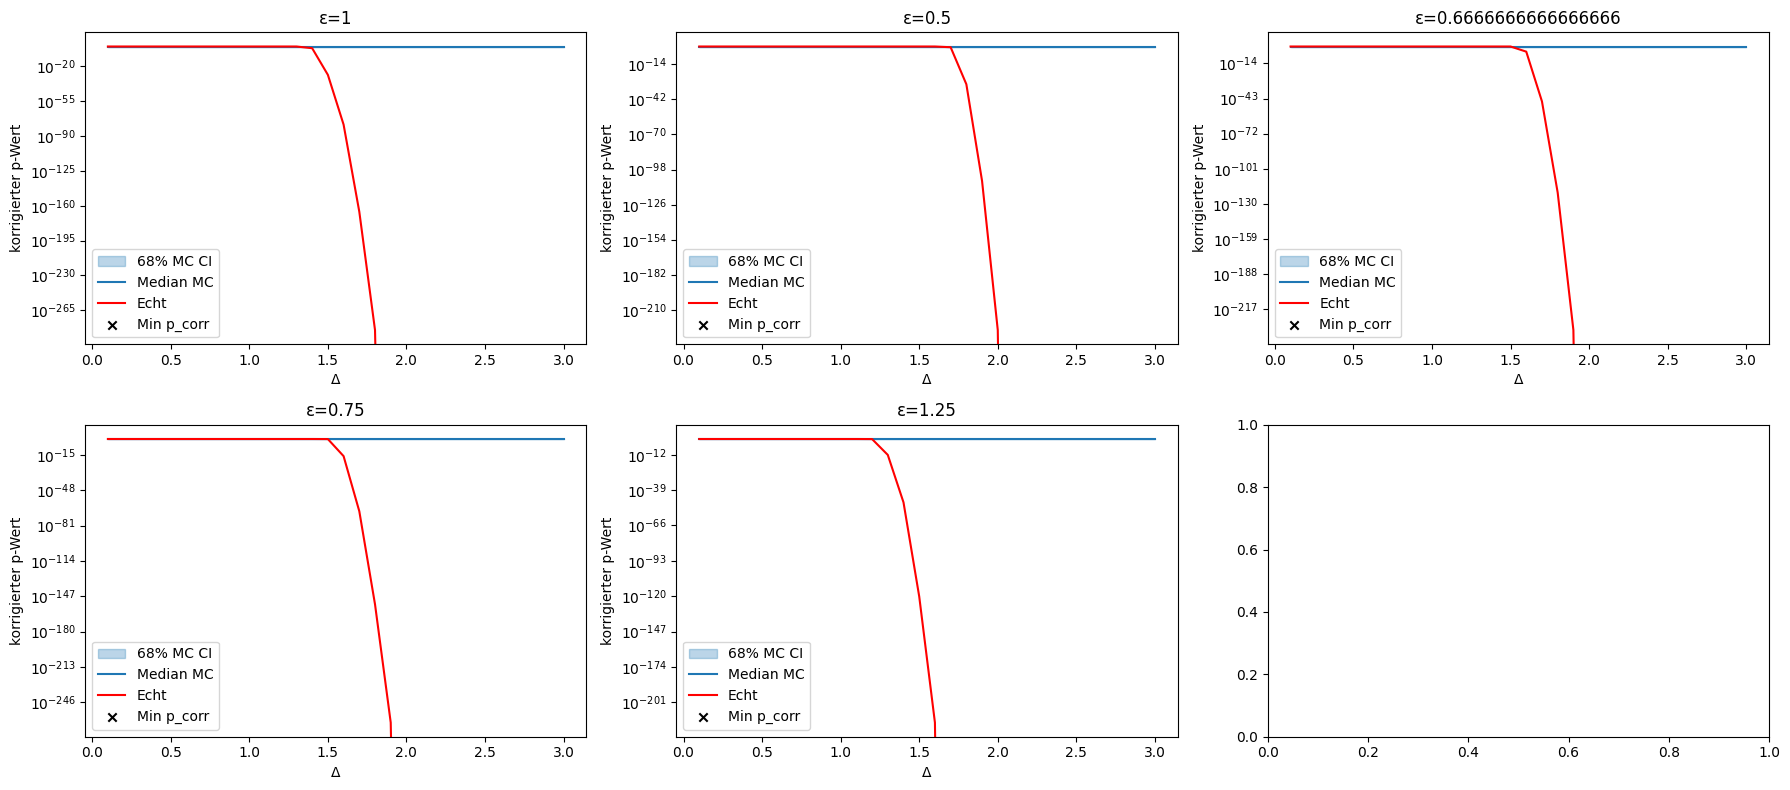
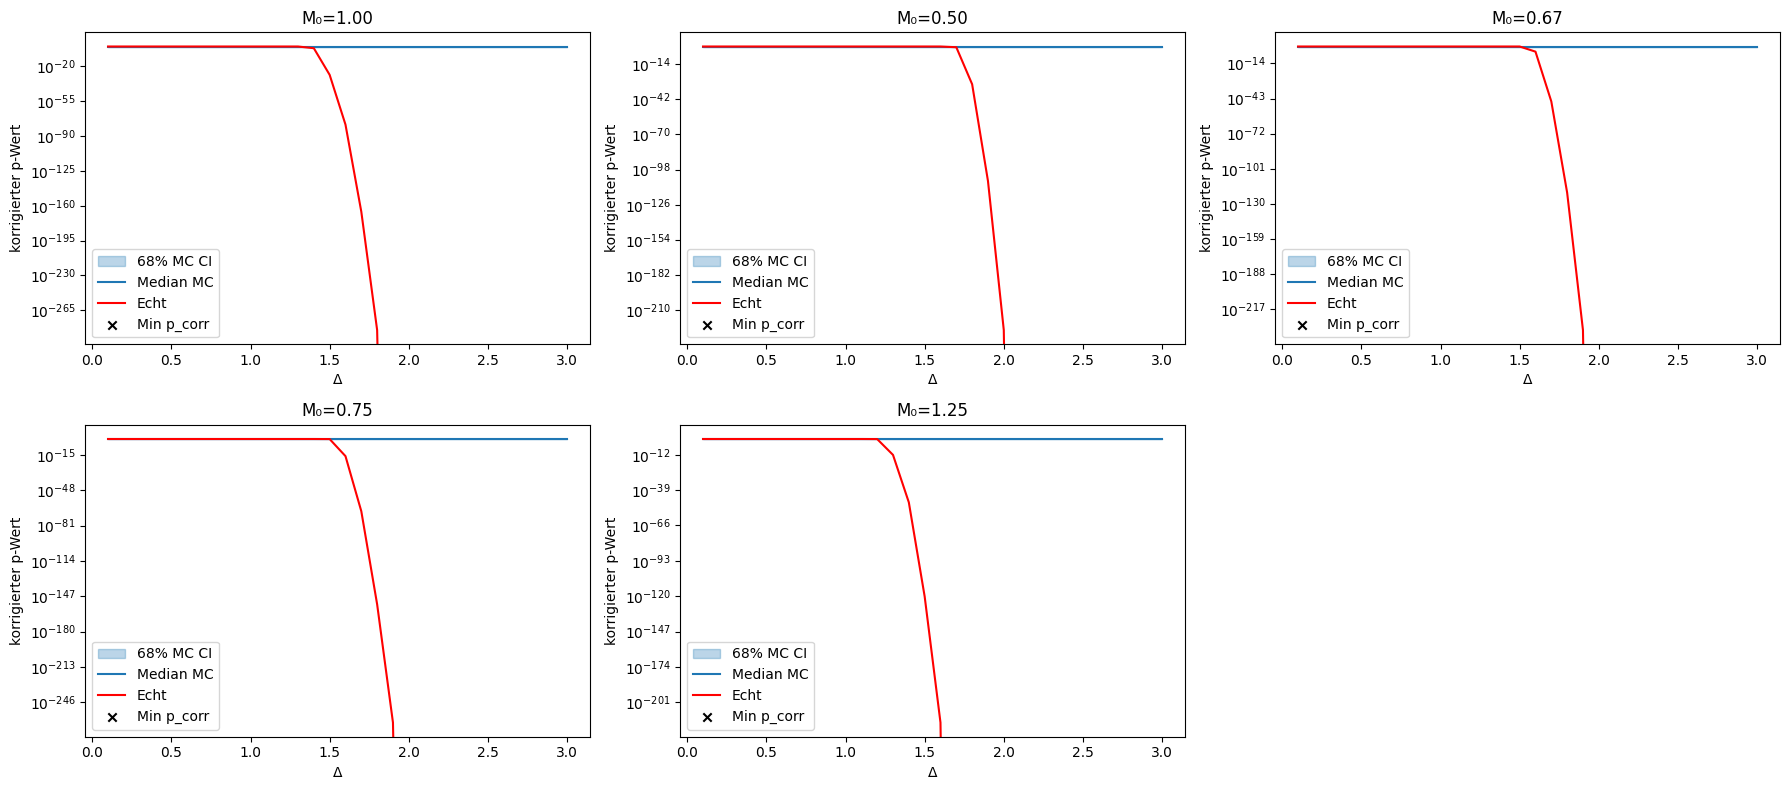
Aktualisiert

diff --git a/de/fakten/empirisch/monte_carlo_test/report_out/resonanz_report.md b/de/fakten/empirisch/monte_carlo_test/report_out/resonanz_report.md
@@ -1,15 +1,15 @@
 # Resonanzanalyse Report
-Erstellt am: 2025-06-01 15:55
+Erstellt am: 2026-02-26 21:52
 
 ## Übersicht der wichtigsten Kennzahlen
 
-| ε | Δ (opt.) | Hits | [16%, 84%] | p_raw | p_corr | empir. p |
-|---|---------|------|------------|-------|--------|----------|
-| 1.00 | 1.90 | 2699 | [2645, 2748] | 0.00e+00 | 0.00e+00 | 0 |
-| 0.50 | 2.10 | 1647 | [1607, 1686] | 0.00e+00 | 0.00e+00 | 0 |
-| 0.67 | 2.00 | 1860 | [1816, 1901] | 0.00e+00 | 0.00e+00 | 0 |
+| M₀ | Δ (opt.) | Hits | [16%, 84%] | p_raw | p_corr | empir. p |
+|-----|---------|------|------------|-------|--------|----------|
+| 1.00 | 1.90 | 2699 | [2648, 2748] | 0.00e+00 | 0.00e+00 | 0 |
+| 0.50 | 2.10 | 1647 | [1606, 1687] | 0.00e+00 | 0.00e+00 | 0 |
+| 0.67 | 2.00 | 1860 | [1819, 1901] | 0.00e+00 | 0.00e+00 | 0 |
 | 0.75 | 2.00 | 2155 | [2108, 2199] | 0.00e+00 | 0.00e+00 | 0 |
-| 1.25 | 1.70 | 2901 | [2845, 2951] | 0.00e+00 | 0.00e+00 | 0 |
+| 1.25 | 1.70 | 2901 | [2847, 2954] | 0.00e+00 | 0.00e+00 | 0 |
 
 
 ### Monte-Carlo-Hits vs. echte Hits
@@ -23,8 +23,8 @@ Erstellt am: 2025-06-01 15:55
 
 ## Interpretation
 
-- Für ε=1.00 ist der empirische p-Wert 0 (hoch signifikant). Gefundene Treffer: 2699 (Erwartung im Hintergrund: 2697.0 [16%: 2645, 84%: 2748]).
-- Für ε=0.50 ist der empirische p-Wert 0 (hoch signifikant). Gefundene Treffer: 1647 (Erwartung im Hintergrund: 1645.0 [16%: 1607, 84%: 1686]).
-- Für ε=0.67 ist der empirische p-Wert 0 (hoch signifikant). Gefundene Treffer: 1860 (Erwartung im Hintergrund: 1858.0 [16%: 1816, 84%: 1901]).
-- Für ε=0.75 ist der empirische p-Wert 0 (hoch signifikant). Gefundene Treffer: 2155 (Erwartung im Hintergrund: 2153.0 [16%: 2108, 84%: 2199]).
-- Für ε=1.25 ist der empirische p-Wert 0 (hoch signifikant). Gefundene Treffer: 2901 (Erwartung im Hintergrund: 2897.0 [16%: 2845, 84%: 2951]).
+- Für M₀=1.00 ist der empirische p-Wert 0 (hoch signifikant). Gefundene Treffer: 2699 (Erwartung im Hintergrund: 2698.0 [16%: 2648, 84%: 2748]).
+- Für M₀=0.50 ist der empirische p-Wert 0 (hoch signifikant). Gefundene Treffer: 1647 (Erwartung im Hintergrund: 1646.0 [16%: 1606, 84%: 1687]).
+- Für M₀=0.67 ist der empirische p-Wert 0 (hoch signifikant). Gefundene Treffer: 1860 (Erwartung im Hintergrund: 1860.0 [16%: 1819, 84%: 1901]).
+- Für M₀=0.75 ist der empirische p-Wert 0 (hoch signifikant). Gefundene Treffer: 2155 (Erwartung im Hintergrund: 2154.0 [16%: 2108, 84%: 2199]).
+- Für M₀=1.25 ist der empirische p-Wert 0 (hoch signifikant). Gefundene Treffer: 2901 (Erwartung im Hintergrund: 2900.0 [16%: 2847, 84%: 2954]).
